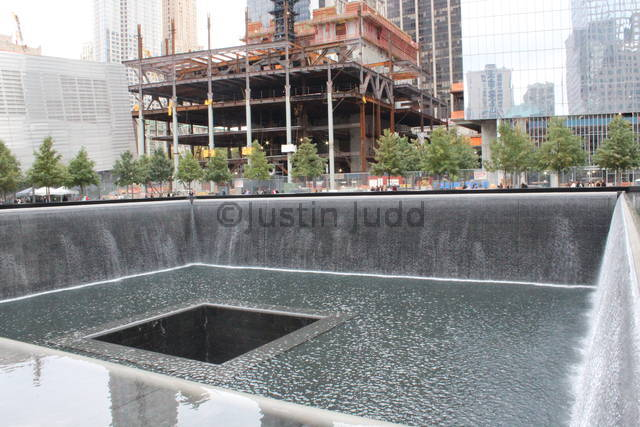
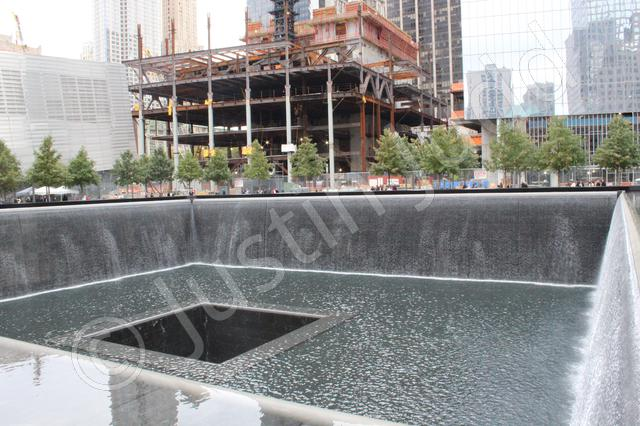
added basis for python scripts to be used in album creation/generation. Regenerated images already added.

diff --git a/scripts/prepare_images.py b/scripts/prepare_images.py
@@ -1,0 +1,71 @@
+from PIL import Image, ImageDraw, ImageFont
+import PIL
+from math import atan, degrees
+import sys
+import os
+
+FONT = "/usr/share/fonts/truetype/droid/DroidSans.ttf"
+web_basewidth = 640
+high_basewidth = 1920
+
+def add_watermark_files(filename, text, outfilename):
+    img = Image.open(filename).convert("RGB")
+    watermarked = add_watermark(img, text) 
+    watermarked.save(outfilename)
+    
+def add_watermark(img, text):
+    img = img.convert("RGB")
+    watermark = Image.new("RGBA", (img.size[0], img.size[1]))
+    draw = ImageDraw.ImageDraw(watermark, "RGBA")
+    size = 0
+    while True:
+        size += 1
+        nextfont = ImageFont.truetype(FONT, size)
+        nexttextwidth, nexttextheight = nextfont.getsize(text)
+        if nexttextwidth+nexttextheight/3 > watermark.size[0]:
+            break
+        font = nextfont
+        textwidth, textheight = nexttextwidth, nexttextheight
+    draw.setfont(font)
+    draw.text(((watermark.size[0]-textwidth)/2,
+               (watermark.size[1]-textheight)/2), text)
+    watermark = watermark.rotate(degrees(atan(float(img.size[1])/
+                                              img.size[0])),
+                                 Image.BICUBIC)
+    mask = watermark.convert("L").point(lambda x: min(x, 55))
+    watermark.putalpha(mask)
+    img.paste(watermark, None, watermark)
+    return img
+    
+    
+def deinterlace_image_files(filename, outfilename):
+    downsized = deinterlace_image(img=Image.open(filename))
+    downsized.save(outputfilename)
+    
+def deinterlace_image(img):
+    size=list(img.size)
+    size[0] /= 2
+    size[1] /= 2
+    return img.resize(size, Image.NEAREST) # NEAREST drops the lines
+
+if __name__ == "__main__":	
+    #image_base = '/tmp/hyde_site/content/media/photos/NYC/Tesla/tesla_model_x'
+    image_base = '/tmp/hyde_site/content/media/photos/NYC/statue_of_liberty'
+    full_img_file = image_base + '_full.jpg'
+    #high_img_file = image_base + '_high.jpg'
+    high_img_file = image_base + '_high_test.jpg'
+    #web_img_file = image_base + '_web.jpg'
+    web_img_file = image_base + '_web_test.jpg'
+    
+    full_img=Image.open(full_img_file)
+    
+    wpercent = (high_basewidth / float(full_img.size[0]))
+    hsize = int((float(full_img.size[1]) * float(wpercent)))
+    high_img = full_img.resize((high_basewidth, hsize), PIL.Image.ANTIALIAS)
+    high_img.save(high_img_file)
+    
+    wpercent = (web_basewidth / float(full_img.size[0]))
+    hsize = int((float(full_img.size[1]) * float(wpercent)))
+    web_img = full_img.resize((web_basewidth, hsize), PIL.Image.ANTIALIAS)
+    web_img = add_watermark(web_img, '\xa9 Justin Judd' )
+    web_img.save(web_img_file)

diff --git a/scripts/watermark.py b/scripts/watermark.py
@@ -1,0 +1,33 @@
+from PIL import Image, ImageDraw, ImageFont
+from math import atan, degrees
+import sys
+import os
+
+FONT = "/usr/share/fonts/truetype/droid/DroidSans.ttf"
+
+def add_watermark(filename, text, outfilename):
+    img = Image.open(filename).convert("RGB")
+    watermark = Image.new("RGBA", (img.size[0], img.size[1]))
+    draw = ImageDraw.ImageDraw(watermark, "RGBA")
+    size = 0
+    while True:
+        size += 1
+        nextfont = ImageFont.truetype(FONT, size)
+        nexttextwidth, nexttextheight = nextfont.getsize(text)
+        if nexttextwidth+nexttextheight/3 > watermark.size[0]:
+            break
+        font = nextfont
+        textwidth, textheight = nexttextwidth, nexttextheight
+    draw.setfont(font)
+    draw.text(((watermark.size[0]-textwidth)/2,
+               (watermark.size[1]-textheight)/2), text)
+    watermark = watermark.rotate(degrees(atan(float(img.size[1])/
+                                              img.size[0])),
+                                 Image.BICUBIC)
+    mask = watermark.convert("L").point(lambda x: min(x, 55))
+    watermark.putalpha(mask)
+    img.paste(watermark, None, watermark)
+    img.save(outfilename)
+
+if __name__ == "__main__":
+    add_watermark('/tmp/hyde_site/content/media/photos/NYC/Tesla/tesla_model_x_high.jpg', '\xa9 Justin Judd', '/tmp/hyde_site/content/media/photos/NYC/Tesla/tesla_model_x_test.jpg' )
